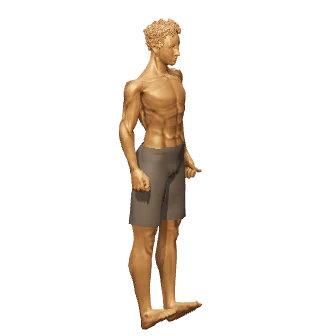
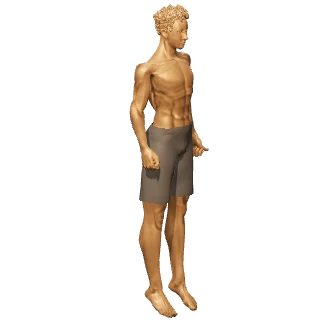
Elevación de talones: el talón sube, no se hunde en el suelo
El pie giraba sobre la bola en sentido antihorario: el tobillo bajaba, el
atleta se hundía 9 cm y las puntas acababan hacia arriba (se ve en el
fotograma publicado elevacion-talones-2). Ahora gira en sentido horario y el
talón sube. Lo destapó la comprobación de suelo de la tanda 3.

Changed region(s): [[0.3571, 0.0, 0.625, 0.9821]]

diff --git a/js/anim3d/poses.js b/js/anim3d/poses.js
@@ -257,7 +257,7 @@ export function pistol() {
 export function calfRaise() {
   return s => {
     const ball = v2(ANKLE_X + M.toe.dx, M.ankleH + M.toe.dy);
-    const lift = rad(32) * s;                               // giro del pie
+    const lift = -rad(32) * s;                              // giro del pie: horario, el talón sube
     const A = add2(ball, rot2(v2(-M.toe.dx, -M.toe.dy), lift));
     const K = add2(A, v2(0, M.shank));
     const H = add2(K, v2(0, M.thigh));
